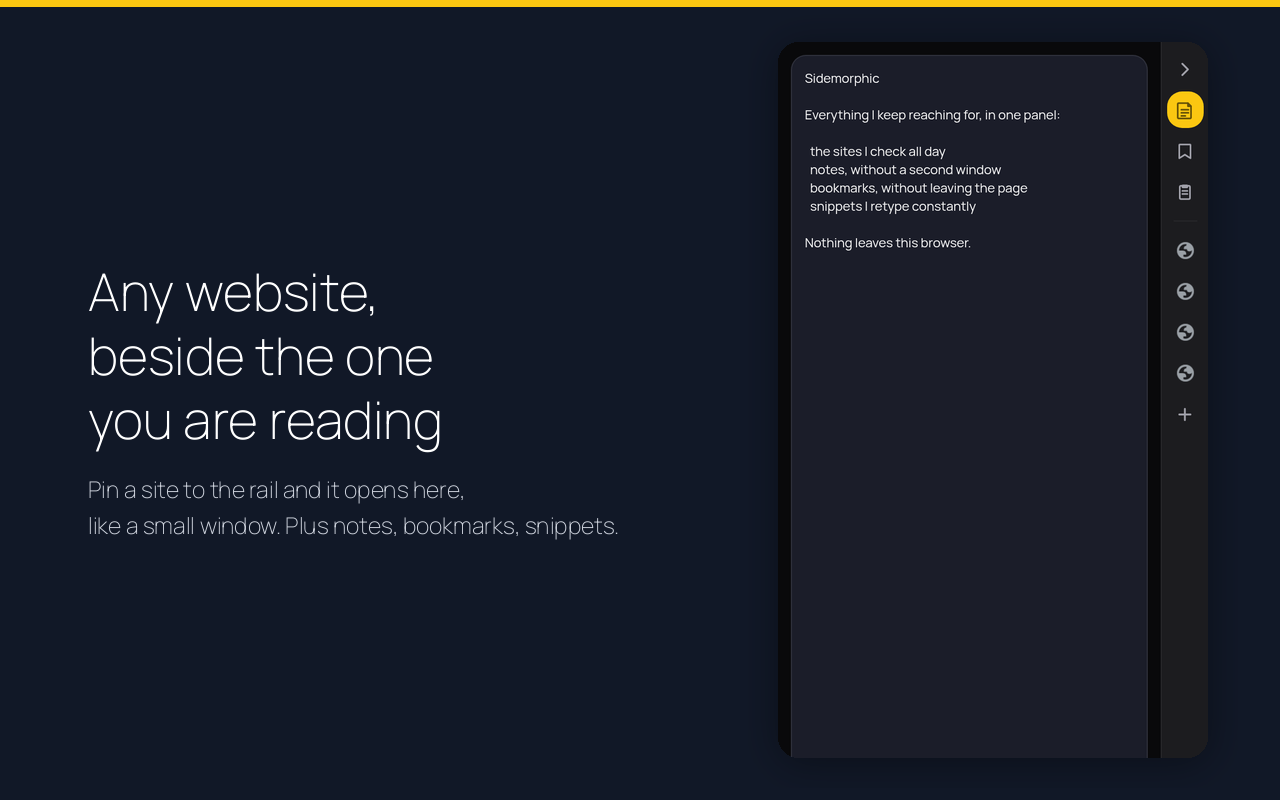
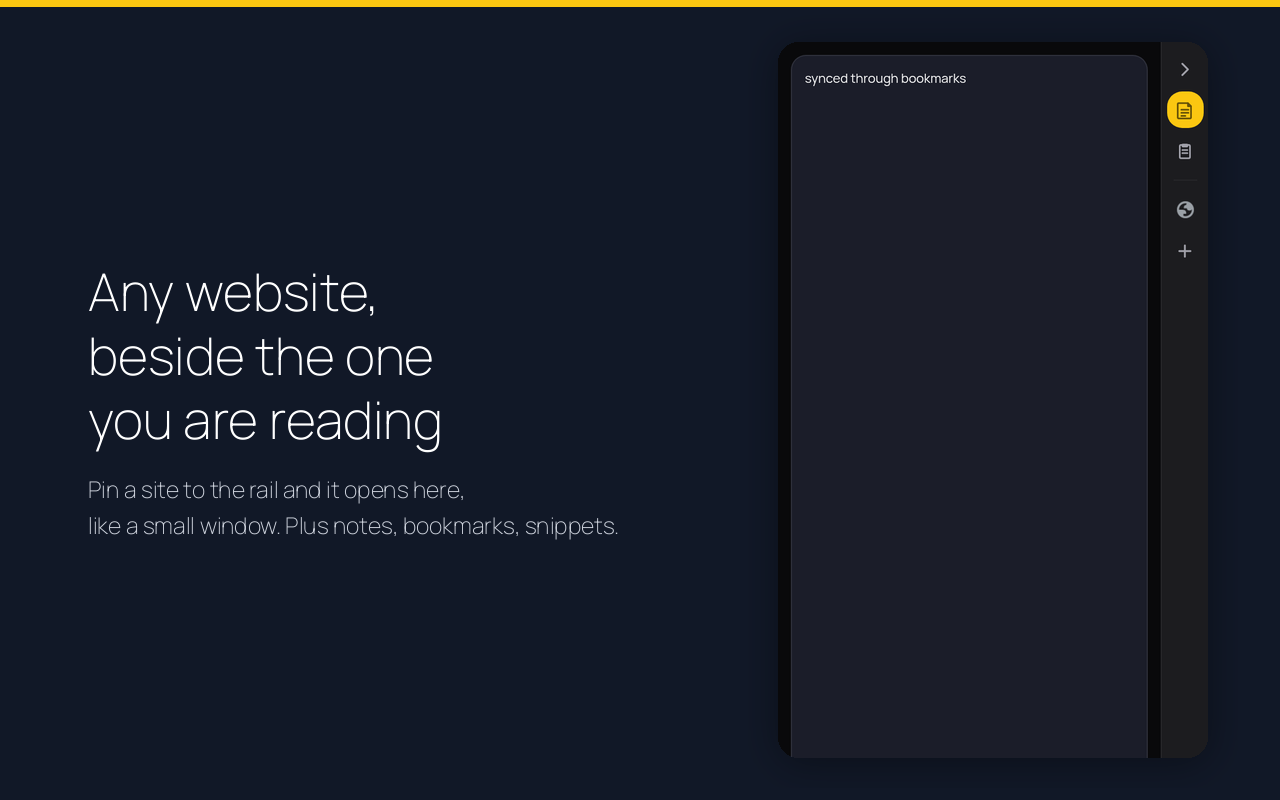
Sync through bookmarks, the way Pastemorphic does
Brave does not sync extension storage and Vivaldi only syncs which
extensions are installed, so chrome.storage.sync would have done nothing in
either. Bookmarks are the one thing both of them do sync.

Everything now lives in an Other Bookmarks folder called Sidemorphic:
pinned sites as ordinary clickable bookmarks in rail order, the scratchpad
and snippets parked in the url of a bookmark on a reserved .invalid host,
per the house rule against javascript: urls. Extension storage stays as a
local mirror so the panel draws instantly and still works without bookmarks.

Seeding is decided by whether the FOLDER is empty, not by a local flag - a
second machine with a fresh profile would otherwise overwrite the folder
that had just synced to it.

Verified: typed a note and added a snippet, confirmed both landed in the
bookmark urls, then cleared extension storage entirely and reloaded - the
scratchpad, the pin and the snippet all came back from bookmarks alone.

diff --git a/chrome/lib/store.js b/chrome/lib/store.js
@@ -1,0 +1,151 @@
+/* Sidemorphic storage.
+   Everything lives in bookmarks, so the browser's own sync carries it —
+   no account, no server, and it works in Brave and Vivaldi, which sync
+   bookmarks but not extension storage.
+
+   Bookmarks/Other bookmarks/
+     Sidemorphic/
+       <pinned site>          one ordinary bookmark per pinned panel,
+                              in rail order — clickable, readable, and
+                              useful even without the extension
+       Sidemorphic scratchpad url holds the scratchpad text
+       Sidemorphic snippets   url holds the snippets, as JSON
+
+   Extension storage is still written as a local mirror, so the panel has
+   something to draw before the bookmark read finishes and something to
+   fall back on if the bookmarks API is unavailable.
+*/
+
+const ROOT_TITLE = "Sidemorphic";
+const SCRATCH_TITLE = "Sidemorphic scratchpad";
+const SNIPPETS_TITLE = "Sidemorphic snippets";
+
+// Data is parked in the bookmark's url. A reserved .invalid host means a
+// stray click goes nowhere, and no browser treats it as code — unlike a
+// javascript: url, which some browsers strip outright.
+const HEAD = "https://sidemorphic.invalid/#sm1:";
+
+const bm = chrome.bookmarks;
+
+function encode(value) {
+  return HEAD + encodeURIComponent(JSON.stringify(value));
+}
+
+function decode(url) {
+  if (typeof url !== "string" || !url.startsWith(HEAD)) return null;
+  try {
+    return JSON.parse(decodeURIComponent(url.slice(HEAD.length)));
+  } catch {
+    return null;
+  }
+}
+
+// Chrome numbers its roots 1/2/3; other browsers name them. Ask the tree
+// rather than assuming either.
+async function otherBookmarksId() {
+  const tree = await bm.getTree();
+  const roots = (tree[0] && tree[0].children) || [];
+  const other =
+    roots.find((r) => r.id === "unfiled_____") ||
+    roots.find((r) => r.id === "2") ||
+    roots.find((r) => /other/i.test(r.title || ""));
+  const pick = other || roots[roots.length - 1] || roots[0];
+  return pick ? pick.id : "2";
+}
+
+let rootIdCache = null;
+
+async function rootId() {
+  if (rootIdCache) {
+    const [still] = await bm.get(rootIdCache).catch(() => []);
+    if (still) return rootIdCache;
+    rootIdCache = null;
+  }
+  const parentId = await otherBookmarksId();
+  const kids = await bm.getChildren(parentId);
+  const found = kids.find((k) => !k.url && k.title === ROOT_TITLE);
+  const node = found || (await bm.create({ parentId, title: ROOT_TITLE }));
+  rootIdCache = node.id;
+  return node.id;
+}
+
+async function childByTitle(title) {
+  const kids = await bm.getChildren(await rootId());
+  return kids.find((k) => k.title === title && k.url) || null;
+}
+
+async function putBlob(title, value) {
+  const url = encode(value);
+  const existing = await childByTitle(title);
+  if (existing) {
+    if (existing.url !== url) await bm.update(existing.id, { url });
+  } else {
+    await bm.create({ parentId: await rootId(), title, url });
+  }
+}
+
+async function getBlob(title, fallback) {
+  const node = await childByTitle(title);
+  if (!node) return fallback;
+  const value = decode(node.url);
+  return value === null ? fallback : value;
+}
+
+/* ---- the three things we keep -------------------------------------- */
+
+export async function readAll() {
+  const kids = await bm.getChildren(await rootId());
+  const webPanels = kids
+    .filter((k) => k.url && !k.url.startsWith(HEAD))
+    .map((k) => k.url);
+  return {
+    webPanels,
+    notepadText: await getBlob(SCRATCH_TITLE, ""),
+    snippets: await getBlob(SNIPPETS_TITLE, []),
+  };
+}
+
+export async function writeScratchpad(text) {
+  await putBlob(SCRATCH_TITLE, text);
+}
+
+export async function writeSnippets(snippets) {
+  await putBlob(SNIPPETS_TITLE, snippets);
+}
+
+// Pinned sites are real bookmarks, and their order in the folder is the
+// rail order. Rewriting the whole set keeps the two in step without
+// having to track which bookmark belongs to which pin.
+export async function writePanels(urls) {
+  const id = await rootId();
+  const kids = await bm.getChildren(id);
+  const current = kids.filter((k) => k.url && !k.url.startsWith(HEAD));
+  for (const k of current) {
+    if (!urls.includes(k.url)) await bm.remove(k.id).catch(() => {});
+  }
+  for (let i = 0; i < urls.length; i++) {
+    const url = urls[i];
+    let host = url;
+    try {
+      host = new URL(url).hostname;
+    } catch {
+      /* keep the raw string as the title */
+    }
+    const existing = current.find((k) => k.url === url);
+    if (existing) {
+      await bm.move(existing.id, { parentId: id, index: i }).catch(() => {});
+      if (existing.title !== host) await bm.update(existing.id, { title: host }).catch(() => {});
+    } else {
+      await bm.create({ parentId: id, title: host, url, index: i }).catch(() => {});
+    }
+  }
+}
+
+export async function available() {
+  try {
+    await rootId();
+    return true;
+  } catch {
+    return false;
+  }
+}

diff --git a/chrome/sidebar/sidebar.js b/chrome/sidebar/sidebar.js
@@ -1,3 +1,5 @@
+import * as store from "../lib/store.js";
+
 
 // Wake the background worker and have it run its once-per-launch boot
 // work. This page reliably exists at every launch (the panel auto-opens),
@@ -119,6 +121,7 @@ notepad.addEventListener("input", () => {
   clearTimeout(scratchpadSaveTimer);
   scratchpadSaveTimer = setTimeout(async () => {
     await chrome.storage.local.set({ notepadText: notepad.value });
+    store.writeScratchpad(notepad.value).catch(() => {});
   }, 600);
 });
 
@@ -183,6 +186,7 @@ async function getWebPanels() {
 async function setWebPanels(list) {
   await chrome.storage.local.set({ webPanels: list });
   renderRailSites(list);
+  store.writePanels(list).catch(() => {});
 }
 
 function openSiteDialog({ url = "", editing = null } = {}) {
@@ -427,7 +431,9 @@ async function loadSnippets() {
     remove.title = "Delete";
     remove.addEventListener("click", async () => {
       const { snippets: current = [] } = await chrome.storage.local.get("snippets");
-      await chrome.storage.local.set({ snippets: current.filter((s) => s.id !== snippet.id) });
+      const kept = current.filter((s) => s.id !== snippet.id);
+      await chrome.storage.local.set({ snippets: kept });
+      store.writeSnippets(kept).catch(() => {});
       loadSnippets();
     });
 
@@ -450,6 +456,7 @@ addSnippetForm.addEventListener("submit", async (e) => {
     },
   ];
   await chrome.storage.local.set({ snippets: next });
+  store.writeSnippets(next).catch(() => {});
   addSnippetLabel.value = "";
   addSnippetText.value = "";
   loadSnippets();
@@ -459,6 +466,58 @@ addSnippetForm.addEventListener("submit", async (e) => {
 loadScratchpad();
 loadWebPanels();
 loadSnippets();
+
+// ---- Sync, via bookmarks ----
+// Bookmarks are the one thing Brave and Vivaldi both sync, so that is
+// where the real copy lives; extension storage is only a local mirror so
+// the panel has something to draw immediately. On load, whatever the
+// bookmarks say wins — that is what may have arrived from another
+// machine. First run seeds the folder from whatever is already here.
+async function syncFromBookmarks() {
+  if (!(await store.available())) return;
+  const remote = await store.readAll();
+
+  // Seed the folder only when it is genuinely empty. Deciding this from a
+  // local "have I seeded" flag would be a data-loss bug: a second machine
+  // with a fresh profile has no flag, and would overwrite the folder that
+  // just synced to it with its own empty state.
+  const remoteEmpty =
+    remote.webPanels.length === 0 && !remote.notepadText && remote.snippets.length === 0;
+  if (remoteEmpty) {
+    const local = await chrome.storage.local.get(["webPanels", "notepadText", "snippets"]);
+    const localEmpty =
+      !(local.webPanels || []).length && !local.notepadText && !(local.snippets || []).length;
+    if (localEmpty) return; // nothing anywhere yet
+    await store.writePanels(local.webPanels || []);
+    await store.writeScratchpad(local.notepadText || "");
+    await store.writeSnippets(local.snippets || []);
+    return;
+  }
+  await chrome.storage.local.set({
+    webPanels: remote.webPanels,
+    // Never let an empty remote wipe text that only exists here — a
+    // half-created folder would otherwise erase the scratchpad.
+    notepadText: remote.notepadText || (await chrome.storage.local.get("notepadText")).notepadText || "",
+    snippets: remote.snippets,
+  });
+  loadWebPanels();
+  loadSnippets();
+  const { notepadText = "" } = await chrome.storage.local.get("notepadText");
+  if (document.activeElement !== notepad) notepad.value = notepadText;
+}
+syncFromBookmarks().catch(() => {});
+
+// A change arriving from another machine lands as a bookmark event.
+if (chrome.bookmarks?.onChanged) {
+  const refresh = () => {
+    clearTimeout(refresh.t);
+    refresh.t = setTimeout(() => syncFromBookmarks().catch(() => {}), 400);
+  };
+  chrome.bookmarks.onChanged.addListener(refresh);
+  chrome.bookmarks.onCreated.addListener(refresh);
+  chrome.bookmarks.onRemoved.addListener(refresh);
+  chrome.bookmarks.onMoved.addListener(refresh);
+}
 
 // ---- About ----
 const aboutVersion = document.getElementById("aboutVersion");

diff --git a/site/index.html b/site/index.html
@@ -35,7 +35,8 @@
 <img class="mark" src="icon.png" alt="" width="56" height="56">
 <h1>Sidemorphic privacy statement</h1>
 <p>Sidemorphic collects nothing, sends nothing, and has no server.</p>
-<p><strong>What it stores, and where.</strong> Your notes, snippets and pinned sites are saved by the browser on your own computer, using the extension storage area. They are never transmitted. There is no account and nothing to sign in to.</p>
+<p><strong>What it stores, and where.</strong> Your scratchpad, snippets and pinned sites are saved as ordinary bookmarks, in a folder called &quot;Sidemorphic&quot; in your Other Bookmarks, with a copy in the browser&#x27;s extension storage. Sidemorphic itself sends nothing anywhere: there is no account, no server of ours, and no network request of any kind.</p>
+<p><strong>Syncing.</strong> Because that data is bookmarks, your browser&#x27;s own sync carries it to your other machines, exactly as it carries the rest of your bookmarks — under whatever settings and encryption your browser provides, between you and your browser maker. We are not involved and cannot see it. If you do not sync bookmarks, nothing leaves the machine. Deleting the folder deletes the data. There is no account and nothing to sign in to.</p>
 <p><strong>Website access.</strong> Sidemorphic installs with access to no websites. The first time you open a pinned site in the panel, the browser asks whether to grant access to that one site — this is needed because showing a site in a panel means removing the headers that normally stop it being framed. You can decline, and the site opens in an ordinary tab instead. You can withdraw access at any time from the browser&#x27;s extension settings.</p>
 <p><strong>What it reads about your browsing.</strong> When you press &quot;+&quot; to pin a site, it reads the address of the tab you are on so it can fill that address in for you. It is shown on screen, saved only if you press Save, and used nowhere else. Sidemorphic does not read page content, and does not keep any history of where you go.</p>
 <p><strong>No third parties.</strong> No analytics, no tracking, no remote code, no external fonts or images, no requests to any service — including ours. Site icons come from the browser&#x27;s own cache.</p>

diff --git a/chrome/sidebar/sidebar.html b/chrome/sidebar/sidebar.html
@@ -73,13 +73,16 @@
         <h2 class="settings-heading">Site access</h2>
         <p class="hint">Sidemorphic starts with access to no websites at all. The first time you open a pinned site here, your browser asks permission for that one site &mdash; needed because showing a site in a panel means dropping the headers that normally stop it. Say no and it opens in an ordinary tab instead. You can take access back any time from the browser's extension settings.</p>
 
+        <h2 class="settings-heading">Syncing</h2>
+        <p class="hint">Your pinned sites, scratchpad and snippets are kept in a bookmarks folder called <strong>Sidemorphic</strong>, in Other Bookmarks. If your browser syncs bookmarks, they travel with them &mdash; no account here, no server of ours. Brave and Vivaldi sync bookmarks but not extension data, which is why they live there. Don't rename the folder, but you can move it.</p>
+
         <h2 class="settings-heading">Keyboard</h2>
         <p class="hint" id="shortcutHint">Checking&hellip;</p>
 
         <h2 class="settings-heading">About</h2>
         <div class="status-row">
           <span class="status-dot ok"></span>
-          <span>Sidemorphic <span id="aboutVersion">&hellip;</span> &mdash; nothing leaves your browser</span>
+          <span>Sidemorphic <span id="aboutVersion">&hellip;</span> &mdash; no account, no server</span>
         </div>
       </section>
 

diff --git a/CHROMEWEBSTORE.md b/CHROMEWEBSTORE.md
@@ -15,6 +15,10 @@ window beside whatever you are reading — your mail, a chat, docs, anything you
 keep flicking tabs to reach. Keep a scratchpad one click away. Save snippets of
 text you retype often and copy one with a click.
 
+Everything you save lives in a single bookmarks folder, so if your browser syncs
+bookmarks it all follows you to your other machines — with no account to make,
+and nothing sent to us. There is no server.
+
 It starts with access to no websites at all. When you open a pinned panel it
 asks permission for that one site, and nothing else. Nothing is sent anywhere:
 no accounts, no servers, no analytics, no remote code. Everything stays in your
@@ -32,7 +36,8 @@ Productivity
 |---|---|
 | `sidePanel` | The extension is a side panel. |
 | `clipboardWrite` | Copies a saved snippet to the clipboard when you click it. |
-| `storage` | The scratchpad, snippets and pinned panels are saved in the browser. Nothing leaves it. |
+| `storage` | A local copy of the same data, so the panel can draw instantly and still work if bookmarks are unavailable. |
+| `bookmarks` | Everything you save — pinned sites, scratchpad, snippets — is kept in one bookmarks folder, so your browser's own bookmark sync carries it between machines. There is no account and no server. |
 | `tabs` | "Pin this page" needs the address of the tab you are on, to fill it into the dialog. Only the URL is read, never page content. |
 | `favicon` | Draws the site icon on each pinned button, from the browser's own cache. No network request. |
 | `declarativeNetRequestWithHostAccess` | Removes the headers that stop a site being shown in a panel — for one site, only after you have granted permission for it. |

diff --git a/PRIVACY.md b/PRIVACY.md
@@ -2,11 +2,18 @@
 
 Sidemorphic collects nothing, sends nothing, and has no server.
 
-**What it stores, and where.** Your scratchpad, snippets and pinned
-sites are saved by the browser on your own computer, using the extension
-storage area. They stay on that computer — they are never transmitted, and
-they do not sync to your other machines. There is no account and nothing to
-sign in to.
+**What it stores, and where.** Your scratchpad, snippets and pinned sites are
+saved as ordinary bookmarks, in a folder called "Sidemorphic" in your Other
+Bookmarks, with a copy in the browser's extension storage. Sidemorphic itself
+sends nothing anywhere: there is no account, no server of ours, and no network
+request of any kind.
+
+**Syncing.** Because that data is bookmarks, your browser's own sync carries it
+to your other machines, exactly as it carries the rest of your bookmarks — under
+whatever settings and encryption your browser provides, between you and your
+browser maker. We are not involved and cannot see it. If you do not sync
+bookmarks, nothing leaves the machine. Deleting the folder deletes the data.
+There is no account and nothing to sign in to.
 
 **Website access.** Sidemorphic installs with access to no websites. The first
 time you open a pinned site in the panel, the browser asks whether to grant

diff --git a/README.md b/README.md
@@ -17,6 +17,8 @@ extensions — Edge, Brave, Vivaldi, Opera. There is no Firefox version.
 - **Panels** — pin any site to the rail and open it beside the page you're on.
 - **Scratchpad** — somewhere to put things, always one click away.
 - **Snippets** — text you retype often; click one to copy it.
+- **Syncs itself** — everything is stored in one bookmarks folder, so the
+  browser's own bookmark sync carries it. No account, no server.
 
 ## Site access
 
